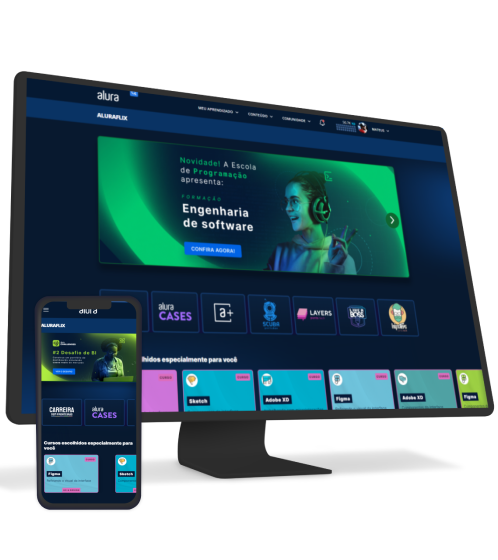
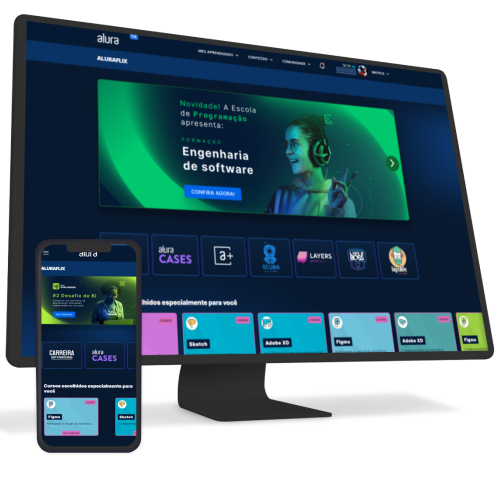
update

diff --git a/alura-plus/index.html b/alura-plus/index.html
@@ -24,7 +24,7 @@
             </div>
         </section>
 
-        <section class="container secondary">
+        <section class="container secondary secondary--plataformas">
             <img class="secondary__imagem" src="assets/Plataformas.png" alt="monitor com site alura aberto">
 
             <div class="container__descricao">

diff --git a/alura-plus/style.css b/alura-plus/style.css
@@ -75,8 +75,12 @@ body {
 
 .secondary {
     align-items: center;
-    margin: -4rem 10rem;
+    margin: 0 10rem;
 }
+
+/* .secondary--plataformas {
+    margin-top: 0;
+} */
 
 .secondary__imagem {
     width: 80%;

diff --git a/alura-plus/responsivo.css b/alura-plus/responsivo.css
@@ -12,7 +12,7 @@
     .secondary {
         text-align: center;
         height: 100%;
-        margin: 5rem auto;
+        margin: 5rem 1rem;
     }
 
     .secondary__imagem {
